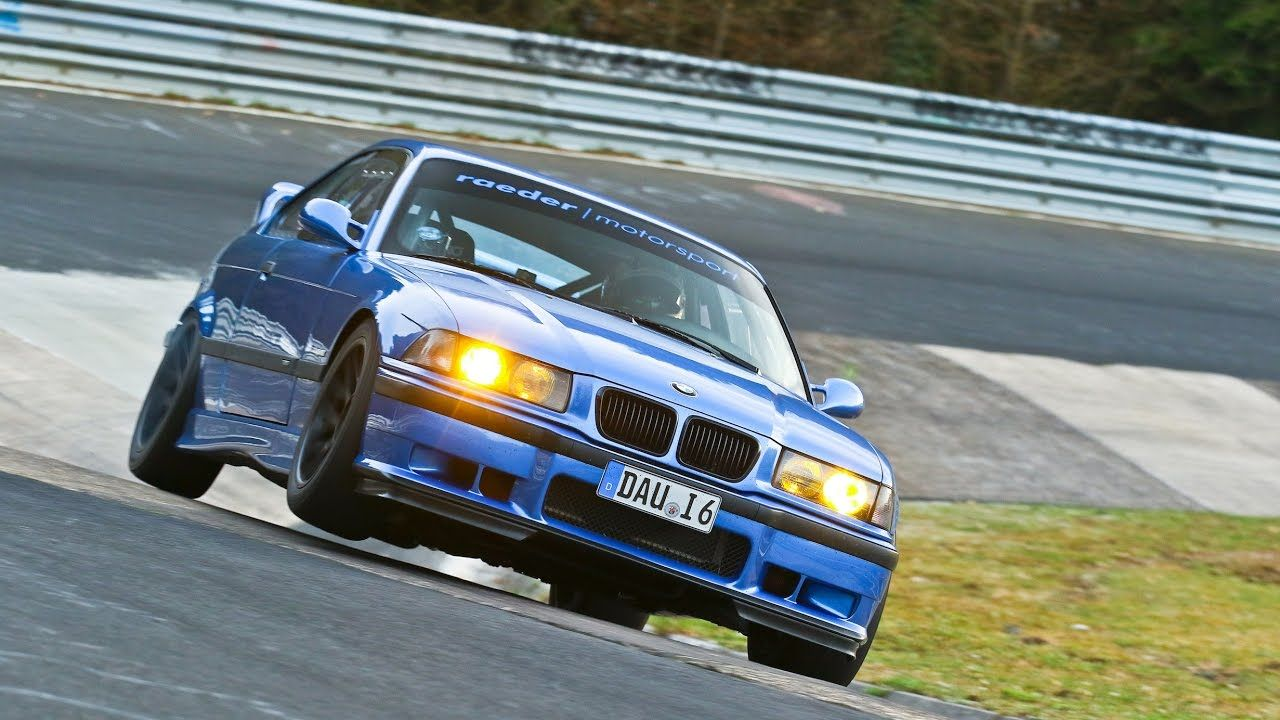
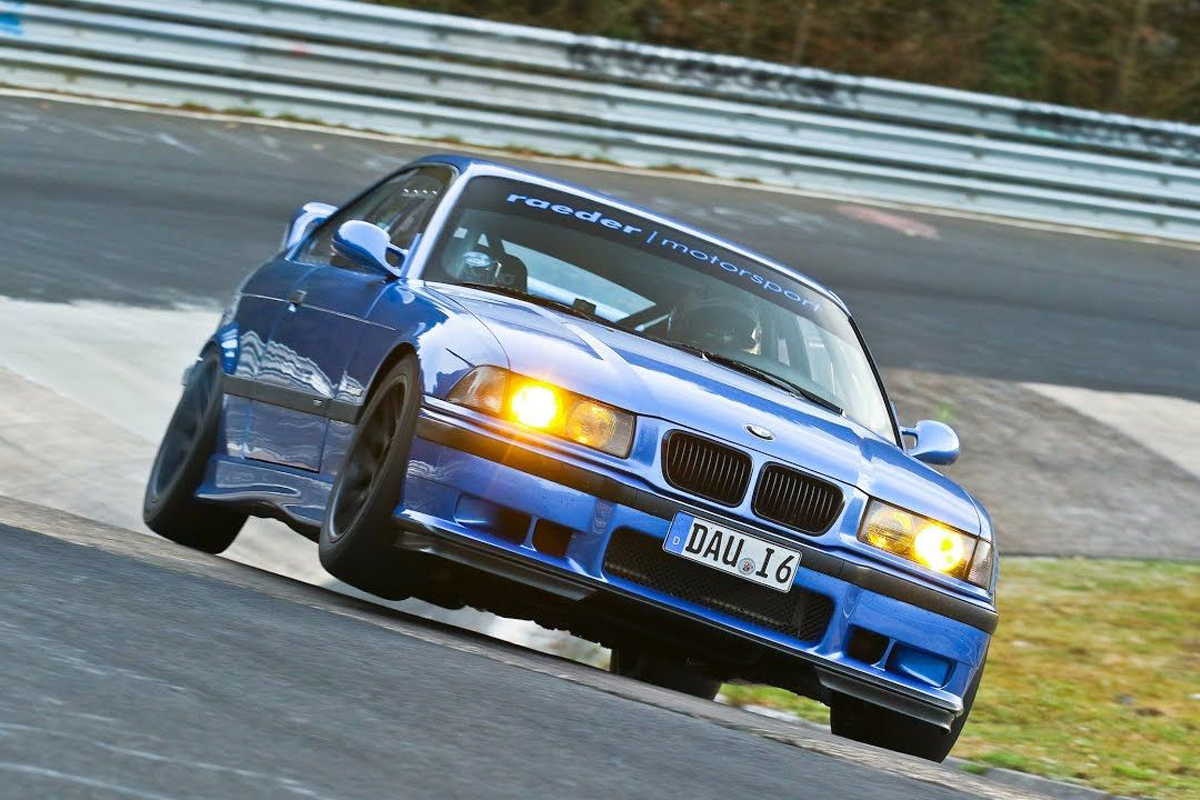
added image carousel

diff --git a/index.html b/index.html
@@ -22,7 +22,7 @@
                     </a>   
                 </div>
                 <div class="col-7 col-md-8 my-5 d-flex align-items-center">
-                    <h1 class="mx-auto">THE MOST POWERFUL LETTER IN THE WORLD.</h1>
+                    <h1 class="mx-auto">The most powerful letter in the world.</h1>
                 </div>
                 <div class="col my-5 text-center">
                     <a class="btn text-white btn-info btn-lg text-nowrap" id="reserveButton">Build Your Own</a>
@@ -42,7 +42,7 @@
           <div class="collapse navbar-collapse" id="smakaNavbar">
               <ul class="navbar-nav mx-auto">
                   <li class="nav-item text-center"><a class="nav-link active" href="#">Home</a></li>
-                  <li class="nav-item text-center"><a class="nav-link" href="portfolio.html">Performance</a></li>
+                  <li class="nav-item text-center"><a class="nav-link" href="portfolio.html">///M Performance</a></li>
                   <li class="nav-item text-center"><a class="nav-link" href="pricing.html">Options</a></li>
                   <li class="nav-item text-center"><a class="nav-link" id="bookButton" href="#">Schedule a Test Drive</a></li>
                   <li class="nav-item text-center"><a class="nav-link" href="schedule.html">Place an Order</a></li>
@@ -139,7 +139,7 @@
         </div>
         <div class="carousel-inner">
         <div class="carousel-item active">
-            <img src="images/m3ImageOne.jpg" class="d-block w-100" alt="...">
+            <img src="images/m3ImageFive.jpg" class="d-block w-100" alt="...">
         </div>
         <div class="carousel-item">
             <img src="images/m3ImageTwo.jpg" class="d-block w-100" alt="...">
@@ -157,8 +157,7 @@
         <img class="col col-lg-6 px-0" id="about-image" src="images/aboutimg.JPG"/>
         
         <div class="col col-lg-6 mx-auto bg-white py-5 my-auto">
-          <h1 class="text-center gold-header h1-desktop d-none d-md-block">About Me</h1>
-          <h1 class="text-center gold-header d-md-none">About Me</h1>
+          <h1 class="text-center">The ultimate driving machine just got better.</h1>
 
           <p class="mx-auto col col-md-10 my-5">
             I grew up in Missouri with two siblings. Did a stint in California where I met my wonderful husband. It wasn't until I had my beautiful daughter that I began to appreciate the importance of having pictures of such wonderful times in my life. I picked up a camera and have been hooked ever since. I have since moved back to Missouri to be closer to my family. It's great to have real seasons again. I look forward to working with you! 
@@ -176,7 +175,7 @@
         <a href="https://www.instagram.com"><i class="fab fa-instagram-square fa-2x" aria-hidden="true"></i></a>
       </div>
       
-      <div class="pb-5" id="copyright-text">&copy; 2021 Samantha Maka Photography</div>
+      <div class="pb-5" id="copyright-text">&copy; 1995 BMW Automotive Group</div>
     </footer>
 
     <!-- jQuery must come first, then Popper.js, then the Bootstrap JavaScript plugins.-->

diff --git a/css/stylesheet.css b/css/stylesheet.css
@@ -1,0 +1,3 @@
+.navbar{
+    background-color: white;
+}
